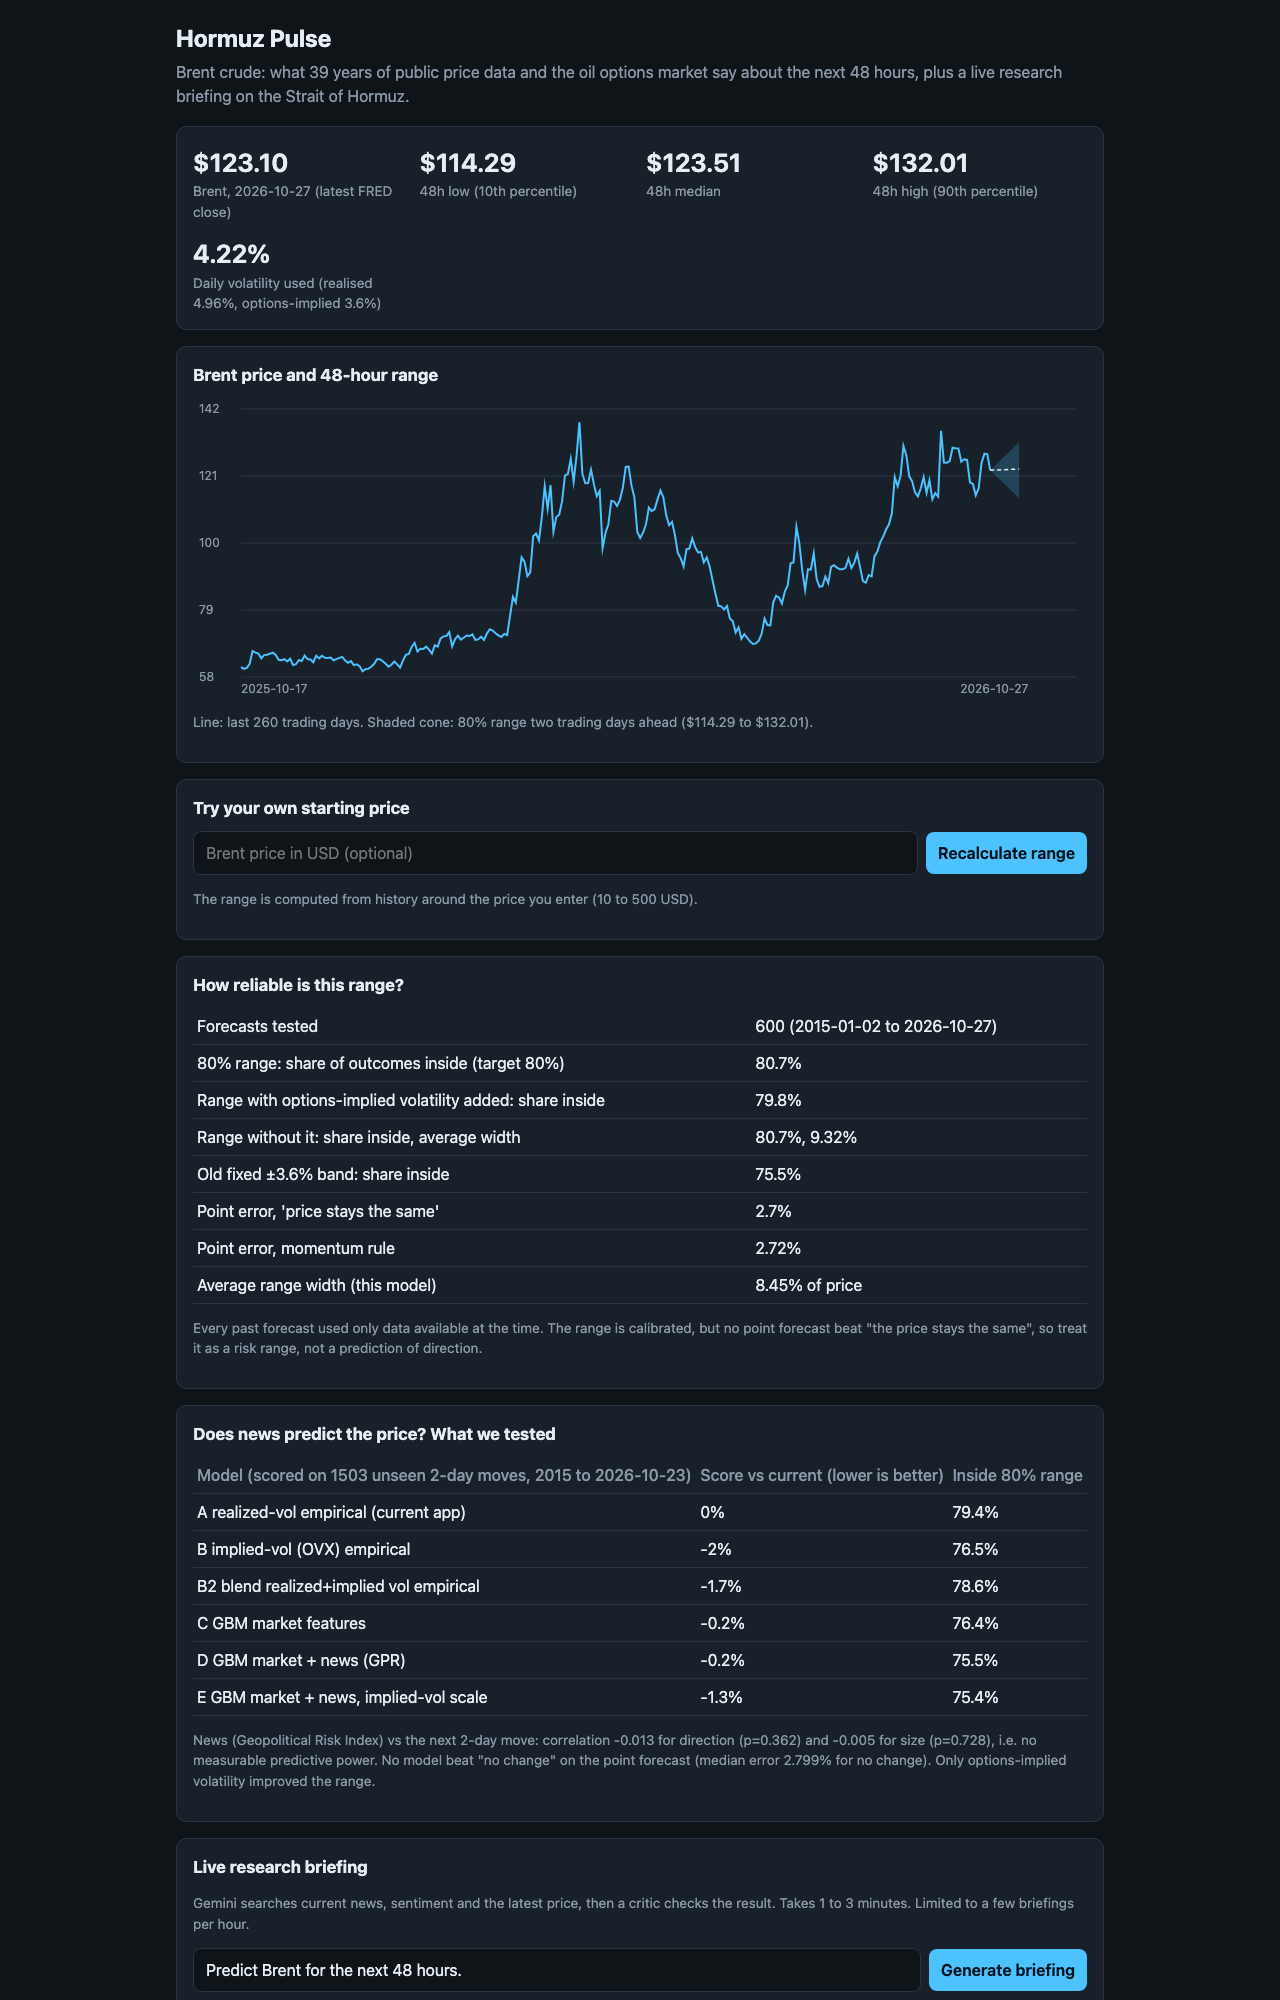
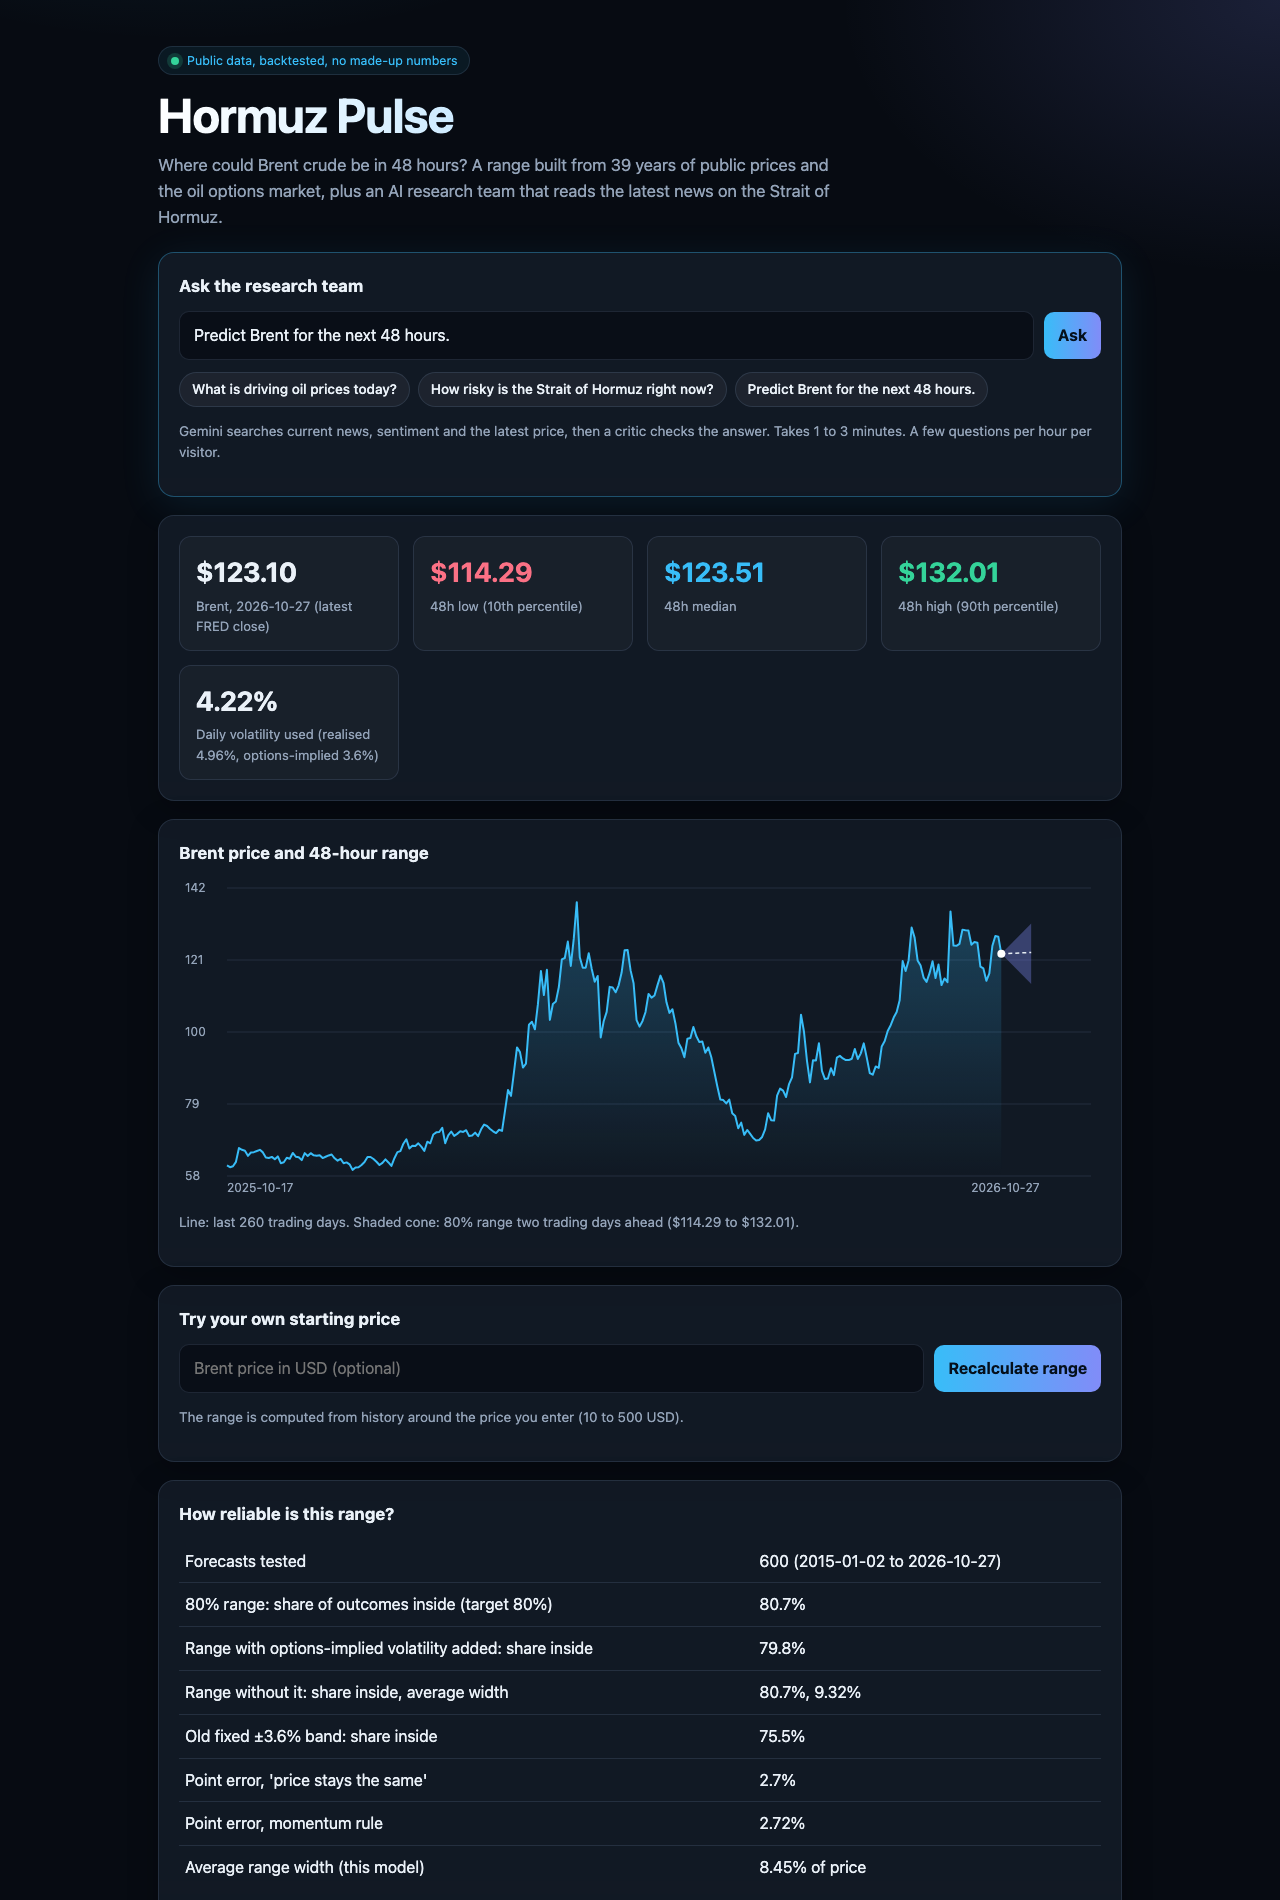
Redesign dashboard: question box first, gradient chart, stat cards

diff --git a/app/static/index.html b/app/static/index.html
@@ -5,31 +5,66 @@
 <meta name="viewport" content="width=device-width, initial-scale=1">
 <title>Hormuz Pulse: Brent 48-hour outlook</title>
 <style>
-  :root { --bg:#0f1419; --card:#18202a; --line:#2a3544; --text:#e6edf3; --mute:#8b98a8; --acc:#4cc2ff; --up:#3fb950; --down:#f85149; }
+  :root { --bg:#070b12; --card:rgba(22,30,43,.72); --line:rgba(120,150,190,.18); --text:#eaf1f8; --mute:#93a3b8; --acc:#38bdf8; --acc2:#818cf8; --up:#34d399; --down:#fb7185; }
   * { box-sizing: border-box; }
-  body { margin:0; font:16px/1.5 system-ui,-apple-system,Segoe UI,Roboto,sans-serif; background:var(--bg); color:var(--text); }
-  main { max-width:960px; margin:0 auto; padding:20px 16px 48px; }
-  h1 { font-size:1.5rem; margin:0 0 4px; } h2 { font-size:1.05rem; margin:0 0 10px; }
-  .sub { color:var(--mute); margin:0 0 18px; }
-  .card { background:var(--card); border:1px solid var(--line); border-radius:10px; padding:16px; margin-bottom:16px; }
-  .grid { display:grid; grid-template-columns:repeat(auto-fit,minmax(170px,1fr)); gap:12px; }
-  .stat .v { font-size:1.6rem; font-weight:650; } .stat .k { color:var(--mute); font-size:.85rem; }
-  canvas { width:100%; height:300px; display:block; }
-  .row { display:flex; gap:8px; flex-wrap:wrap; align-items:center; }
-  input, button { font:inherit; border-radius:8px; border:1px solid var(--line); padding:9px 12px; background:#0f1419; color:var(--text); }
-  input { flex:1; min-width:220px; } button { background:var(--acc); color:#04141f; border:0; font-weight:650; cursor:pointer; }
+  body { margin:0; font:16px/1.55 Inter,system-ui,-apple-system,Segoe UI,Roboto,sans-serif; color:var(--text);
+    background: radial-gradient(900px 500px at 15% -10%, rgba(56,189,248,.16), transparent 60%), radial-gradient(800px 500px at 100% 0%, rgba(129,140,248,.16), transparent 55%), var(--bg); min-height:100vh; }
+  main { max-width:1000px; margin:0 auto; padding:28px 18px 56px; }
+  .hero { padding:18px 0 22px; }
+  .badge { display:inline-flex; gap:8px; align-items:center; font-size:.78rem; color:var(--acc); border:1px solid var(--line); border-radius:999px; padding:4px 12px; background:rgba(56,189,248,.08); }
+  .badge i { width:8px; height:8px; border-radius:50%; background:var(--up); box-shadow:0 0 0 4px rgba(52,211,153,.18); }
+  h1 { font-size:clamp(2rem,5vw,3rem); line-height:1.1; margin:14px 0 10px; letter-spacing:-.02em; background:linear-gradient(90deg,#fff,#9fd8ff 60%,#b3b9ff); -webkit-background-clip:text; background-clip:text; color:transparent; }
+  h2 { font-size:1.05rem; margin:0 0 12px; letter-spacing:.01em; }
+  .sub { color:var(--mute); margin:0; max-width:680px; font-size:1.05rem; }
+  .card { background:var(--card); border:1px solid var(--line); border-radius:16px; padding:20px; margin-bottom:18px; backdrop-filter:blur(8px); box-shadow:0 8px 30px rgba(0,0,0,.25); }
+  .ask { border-color:rgba(56,189,248,.35); box-shadow:0 8px 40px rgba(56,189,248,.10); }
+  .grid { display:grid; grid-template-columns:repeat(auto-fit,minmax(200px,1fr)); gap:14px; }
+  .stat { background:rgba(255,255,255,.03); border:1px solid var(--line); border-radius:12px; padding:14px 16px; }
+  .stat .v { font-size:1.7rem; font-weight:700; letter-spacing:-.01em; } .stat .k { color:var(--mute); font-size:.82rem; margin-top:2px; }
+  .stat.low .v { color:var(--down); } .stat.high .v { color:var(--up); } .stat.mid .v { color:var(--acc); }
+  canvas { width:100%; height:320px; display:block; }
+  .row { display:flex; gap:10px; flex-wrap:wrap; align-items:center; }
+  input, button { font:inherit; border-radius:10px; border:1px solid var(--line); padding:11px 14px; background:rgba(7,11,18,.7); color:var(--text); }
+  input:focus { outline:2px solid var(--acc); outline-offset:1px; }
+  input { flex:1; min-width:220px; }
+  button { background:linear-gradient(90deg,var(--acc),var(--acc2)); color:#05101c; border:0; font-weight:700; cursor:pointer; transition:transform .08s, filter .15s; }
+  button:hover { filter:brightness(1.1); } button:active { transform:scale(.98); }
   button:disabled { opacity:.55; cursor:progress; }
-  table { width:100%; border-collapse:collapse; } td,th { text-align:left; padding:6px 4px; border-bottom:1px solid var(--line); }
-  th { color:var(--mute); font-weight:500; }
-  pre { white-space:pre-wrap; word-wrap:break-word; font:inherit; margin:12px 0 0; }
+  .chips { display:flex; gap:8px; flex-wrap:wrap; margin:12px 0 0; }
+  .chip { background:rgba(255,255,255,.05); color:var(--text); border:1px solid var(--line); font-weight:500; padding:6px 12px; border-radius:999px; font-size:.85rem; }
+  table { width:100%; border-collapse:collapse; } td,th { text-align:left; padding:9px 6px; border-bottom:1px solid var(--line); }
+  th { color:var(--mute); font-weight:500; font-size:.85rem; } tr:last-child td { border-bottom:0; }
+  .answer { white-space:pre-wrap; word-wrap:break-word; margin:16px 0 0; padding:16px; border-radius:12px; background:rgba(255,255,255,.03); border:1px solid var(--line); display:none; }
+  .answer.show { display:block; }
+  .spin { display:inline-block; width:14px; height:14px; border:2px solid var(--line); border-top-color:var(--acc); border-radius:50%; animation:r .8s linear infinite; vertical-align:-2px; margin-right:8px; }
+  @keyframes r { to { transform:rotate(360deg); } }
   .note { color:var(--mute); font-size:.85rem; } .err { color:var(--down); }
+  footer { color:var(--mute); font-size:.8rem; margin-top:26px; }
   a { color:var(--acc); }
 </style>
 </head>
 <body>
 <main>
-  <h1>Hormuz Pulse</h1>
-  <p class="sub">Brent crude: what 39 years of public price data and the oil options market say about the next 48 hours, plus a live research briefing on the Strait of Hormuz.</p>
+  <header class="hero">
+    <span class="badge"><i></i> Public data, backtested, no made-up numbers</span>
+    <h1>Hormuz Pulse</h1>
+    <p class="sub">Where could Brent crude be in 48 hours? A range built from 39 years of public prices and the oil options market, plus an AI research team that reads the latest news on the Strait of Hormuz.</p>
+  </header>
+
+  <section class="card ask">
+    <h2>Ask the research team</h2>
+    <div class="row">
+      <input id="question" maxlength="1000" value="Predict Brent for the next 48 hours." aria-label="Your question">
+      <button id="brief">Ask</button>
+    </div>
+    <div class="chips" id="chips">
+      <button class="chip" type="button">What is driving oil prices today?</button>
+      <button class="chip" type="button">How risky is the Strait of Hormuz right now?</button>
+      <button class="chip" type="button">Predict Brent for the next 48 hours.</button>
+    </div>
+    <p class="note">Gemini searches current news, sentiment and the latest price, then a critic checks the answer. Takes 1 to 3 minutes. A few questions per hour per visitor.</p>
+    <div class="answer" id="briefing" aria-live="polite"></div>
+  </section>
 
   <section class="card">
     <div class="grid" id="stats"><div class="note">Loading Brent data…</div></div>
@@ -62,17 +97,7 @@
     <p class="note" id="evnote"></p>
   </section>
 
-  <section class="card">
-    <h2>Live research briefing</h2>
-    <p class="note">Gemini searches current news, sentiment and the latest price, then a critic checks the result. Takes 1 to 3 minutes. Limited to a few briefings per hour.</p>
-    <div class="row">
-      <input id="question" maxlength="1000" value="Predict Brent for the next 48 hours." aria-label="Question">
-      <button id="brief">Generate briefing</button>
-    </div>
-    <pre id="briefing" aria-live="polite"></pre>
-  </section>
-
-  <p class="note">Educational only, not financial advice. Data: FRED (Brent spot DCOILBRENTEU, CBOE crude oil volatility OVXCLS, VIX, dollar index) and the Caldara-Iacoviello Geopolitical Risk Index (daily, from newspaper coverage). Briefings use Google Search and Gemini, and may contain errors: check the cited sources.</p>
+  <footer>Educational only, not financial advice. Data: FRED (Brent spot DCOILBRENTEU, CBOE crude oil volatility OVXCLS, VIX, dollar index) and the Caldara-Iacoviello Geopolitical Risk Index (daily, from newspaper coverage). Briefings use Google Search and Gemini, and may contain errors: check the cited sources.</footer>
 </main>
 <script src="/static/app.js"></script>
 </body>

diff --git a/app/static/app.js b/app/static/app.js
@@ -13,9 +13,9 @@ async function getJSON(url, options) {
   return response.json();
 }
 
-function stat(key, value) {
+function stat(key, value, kind = "") {
   const box = document.createElement("div");
-  box.className = "stat";
+  box.className = "stat " + kind;
   const v = document.createElement("div"); v.className = "v"; v.textContent = value;
   const k = document.createElement("div"); k.className = "k"; k.textContent = key;
   box.append(v, k);
@@ -26,9 +26,9 @@ function showStats(f) {
   const grid = $("stats");
   grid.replaceChildren(
     stat(`Brent, ${f.as_of} (${f.anchored_on})`, `$${fmt(f.last_price)}`),
-    stat("48h low (10th percentile)", `$${fmt(f.low)}`),
-    stat("48h median", `$${fmt(f.median)}`),
-    stat("48h high (90th percentile)", `$${fmt(f.high)}`),
+    stat("48h low (10th percentile)", `$${fmt(f.low)}`, "low"),
+    stat("48h median", `$${fmt(f.median)}`, "mid"),
+    stat("48h high (90th percentile)", `$${fmt(f.high)}`, "high"),
     stat("Daily volatility used (realised " + f.realised_daily_vol_pct + "%, options-implied " + f.implied_daily_vol_pct + "%)", `${f.daily_vol_pct}%`),
   );
 }
@@ -49,7 +49,7 @@ function drawChart(history, f) {
   const x = (i) => pad.l + (i / (prices.length - 1 + ahead)) * (w - pad.l - pad.r);
   const y = (p) => pad.t + (1 - (p - lo) / (hi - lo)) * (h - pad.t - pad.b);
 
-  ctx.strokeStyle = "#2a3544"; ctx.fillStyle = "#8b98a8"; ctx.font = "12px system-ui"; ctx.lineWidth = 1;
+  ctx.strokeStyle = "rgba(120,150,190,.18)"; ctx.fillStyle = "#93a3b8"; ctx.font = "12px system-ui"; ctx.lineWidth = 1;
   for (let k = 0; k <= 4; k++) {
     const p = lo + ((hi - lo) * k) / 4;
     ctx.beginPath(); ctx.moveTo(pad.l, y(p)); ctx.lineTo(w - pad.r, y(p)); ctx.stroke();
@@ -58,15 +58,22 @@ function drawChart(history, f) {
   ctx.fillText(history.dates[history.dates.length - prices.length], pad.l, h - 6);
   ctx.fillText(history.dates[history.dates.length - 1], x(prices.length - 1) - 30, h - 6);
 
-  ctx.strokeStyle = "#4cc2ff"; ctx.lineWidth = 2; ctx.beginPath();
+  const grad = ctx.createLinearGradient(0, pad.t, 0, h - pad.b);
+  grad.addColorStop(0, "rgba(56,189,248,.28)"); grad.addColorStop(1, "rgba(56,189,248,0)");
+  ctx.beginPath();
+  prices.forEach((p, i) => (i ? ctx.lineTo(x(i), y(p)) : ctx.moveTo(x(i), y(p))));
+  ctx.lineTo(x(prices.length - 1), h - pad.b); ctx.lineTo(x(0), h - pad.b); ctx.closePath();
+  ctx.fillStyle = grad; ctx.fill();
+  ctx.strokeStyle = "#38bdf8"; ctx.lineWidth = 2; ctx.lineJoin = "round"; ctx.beginPath();
   prices.forEach((p, i) => (i ? ctx.lineTo(x(i), y(p)) : ctx.moveTo(x(i), y(p))));
   ctx.stroke();
 
   const x0 = x(prices.length - 1), x1 = x(prices.length - 1 + ahead / 3);
-  ctx.fillStyle = "rgba(76,194,255,.22)";
+  ctx.fillStyle = "rgba(129,140,248,.35)";
   ctx.beginPath(); ctx.moveTo(x0, y(f.last_price)); ctx.lineTo(x1, y(f.high)); ctx.lineTo(x1, y(f.low)); ctx.closePath(); ctx.fill();
   ctx.strokeStyle = "#e6edf3"; ctx.lineWidth = 1.5; ctx.setLineDash([4, 3]);
   ctx.beginPath(); ctx.moveTo(x0, y(f.last_price)); ctx.lineTo(x1, y(f.median)); ctx.stroke(); ctx.setLineDash([]);
+  ctx.fillStyle = "#fff"; ctx.beginPath(); ctx.arc(x0, y(f.last_price), 4, 0, 7); ctx.fill();
   $("chartnote").textContent =
     `Line: last ${prices.length} trading days. Shaded cone: 80% range two trading days ahead ($${fmt(f.low)} to $${fmt(f.high)}).`;
 }
@@ -143,17 +150,21 @@ $("recalc").addEventListener("click", async () => {
 
 $("brief").addEventListener("click", async () => {
   const button = $("brief"), out = $("briefing");
-  button.disabled = true; out.className = ""; out.textContent = "Researching news, sentiment and prices… this takes 1 to 3 minutes.";
+  button.disabled = true; out.className = "answer show"; out.replaceChildren();
+  const spin = document.createElement("span"); spin.className = "spin";
+  out.append(spin, "Researching news, sentiment and prices… this takes 1 to 3 minutes.");
   try {
     const r = await getJSON("/api/brief", {
       method: "POST", headers: { "Content-Type": "application/json" },
       body: JSON.stringify({ question: $("question").value }),
     });
-    out.textContent = r.briefing;
+    out.className = "answer show"; out.textContent = r.briefing;
   } catch (err) {
-    out.className = "err"; out.textContent = err.message;
+    out.className = "answer show err"; out.textContent = err.message;
   } finally { button.disabled = false; }
 });
+
+document.querySelectorAll("#chips .chip").forEach((c) => c.addEventListener("click", () => { $("question").value = c.textContent; $("question").focus(); }));
 
 window.addEventListener("resize", () => { if (historyData) loadForecast($("price").value || undefined).catch(() => {}); });
 init();
